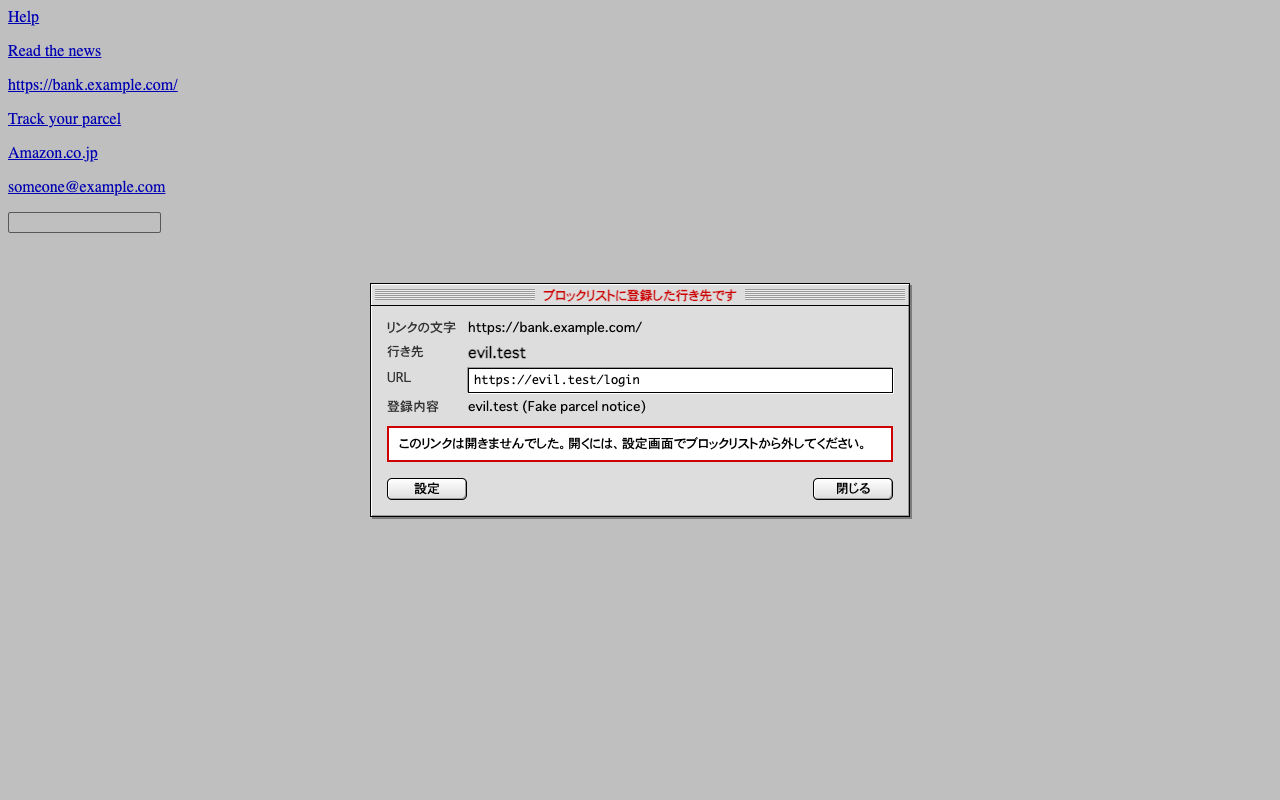
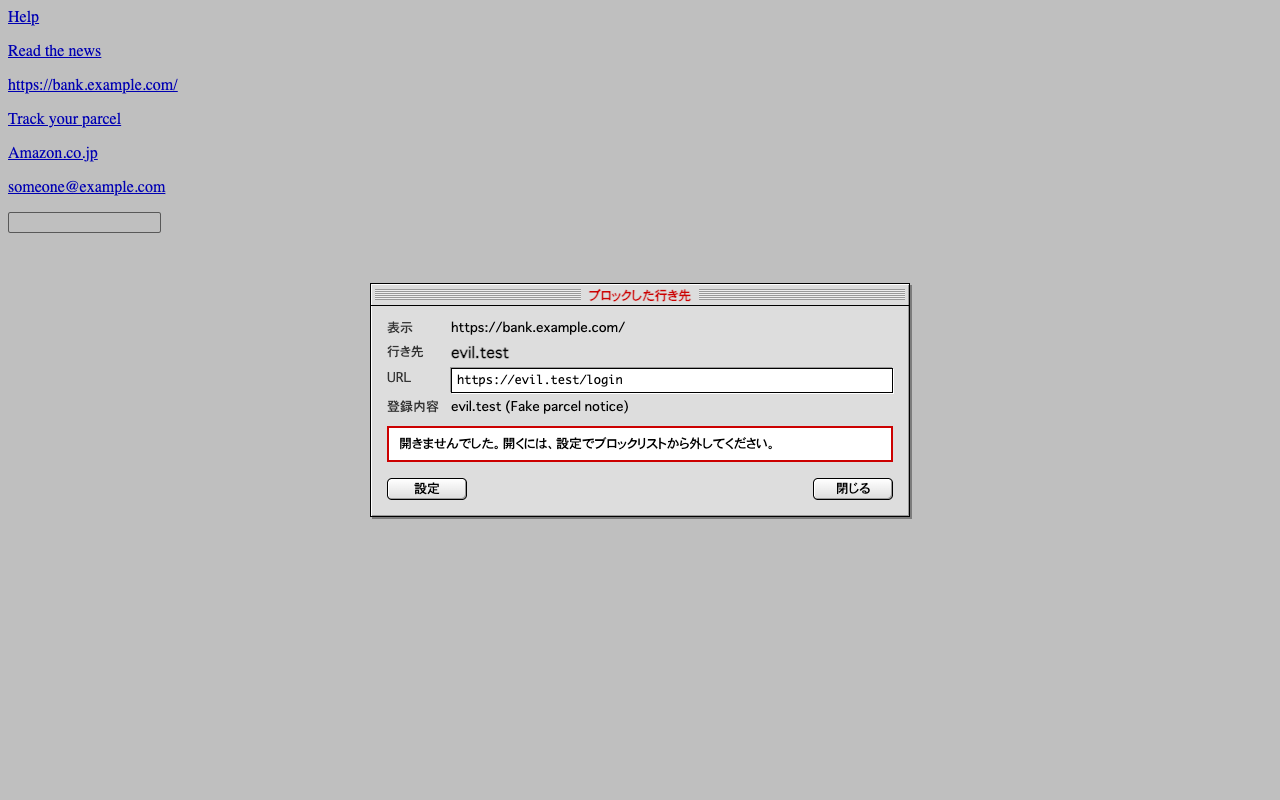
Shorten the Japanese UI wording
Use "リンクの行き先" as the dialog title and remove redundant phrasing
across the Japanese strings and the enterprise guide.

Changed region(s): [[0.3125, 0.4062, 0.6875, 0.5625], [0.4062, 0.3438, 0.5938, 0.375]]

diff --git a/src/locales.ts b/src/locales.ts
@@ -116,35 +116,29 @@ export type MessageKey = keyof typeof en;
 
 export const ja: Record<MessageKey, string> = {
   extName: "Mail Link Guard",
-  extDescription:
-    "Webメールのリンクを開く前に実際の行き先を表示し、ブロックリストに登録した行き先は開かないようにします。",
+  extDescription: "Webメールのリンクを開く前に行き先を表示し、ブロックリストの行き先は開きません。",
 
-  dialogTitle: "このリンクの行き先を確認してください",
-  dialogBlockedTitle: "ブロックリストに登録した行き先です",
-  dialogBlockedBody:
-    "このリンクは開きませんでした。開くには、設定画面でブロックリストから外してください。",
-  labelText: "リンクの文字",
+  dialogTitle: "リンクの行き先",
+  dialogBlockedTitle: "ブロックした行き先",
+  dialogBlockedBody: "開きませんでした。開くには、設定でブロックリストから外してください。",
+  labelText: "表示",
   labelHost: "行き先",
   labelUrl: "URL",
   labelEntry: "登録内容",
-  wrapperGoogle: "Googleのリダイレクト（google.com/url）を外した行き先を表示しています。",
-  wrapperSafelinks:
-    "Outlookの安全なリンク（Safe Links）を外した行き先を表示しています。開くときはSafe Linksを経由します。",
-  noteTextMismatch: "リンクの文字には$1と書かれていますが、行き先は別のドメインです。",
+  wrapperGoogle: "Googleのリダイレクト（google.com/url）を外して表示しています。",
+  wrapperSafelinks: "Safe Linksを外して表示しています。開くときはSafe Linksを経由します。",
+  noteTextMismatch: "表示は$1ですが、行き先は別のドメインです。",
   noteInsecure: "暗号化されていない接続（HTTP）です。",
-  noteIpHost: "行き先がドメイン名ではなくIPアドレスです。",
-  notePunycode:
-    "ドメインに国際化文字（Punycode）が含まれています。見た目が似た別のドメインの可能性があります。",
-  noteShortener: "短縮URLです。最終的な行き先はここでは表示できません。",
-  noteCredentials:
-    "URLの「@」より前に文字（$1）が入っています。実際の行き先は「@」の後ろのドメインです。",
-  noteNone: "形式上の注意点はありません。安全であることを示すものではありません。",
+  noteIpHost: "行き先がIPアドレスです。",
+  notePunycode: "国際化文字（Punycode）を含むドメインです。似せた別のドメインかもしれません。",
+  noteShortener: "短縮URLです。最終的な行き先は分かりません。",
+  noteCredentials: "URLの「@」の前に文字（$1）があります。実際の行き先は「@」の後ろです。",
+  noteNone: "形式上の注意点はありません。安全という意味ではありません。",
   btnCancel: "キャンセル",
   btnOpen: "開く",
   btnClose: "閉じる",
   blockPanelTitle: "ブロックする範囲",
-  blockPanelHelp:
-    "登録すると、次からこの行き先へのリンクは開きません。止める範囲を選んでください。",
+  blockPanelHelp: "登録した行き先のリンクは、次から開きません。",
   noteLabel: "メモ",
   btnRegister: "ブロックリストに追加",
   btnSettings: "設定",
@@ -153,33 +147,29 @@ export const ja: Record<MessageKey, string> = {
   blockScopeUrl: "このURLだけ",
   notePlaceholder: "メモ（任意）",
   blockAddFailed: "登録できませんでした。",
-  dialogEnforcedBody:
-    "このリンクは開きませんでした。組織の管理者がこの行き先をブロックしています。",
-  optManaged: "組織の管理者による設定",
-  optManagedHelp:
-    "これらの項目は組織の管理者が管理しています。すべてのリンクに適用され、ここでは変更できません。",
-  optLockedOn: "組織の設定により、リンクの確認は常にオンです。",
-  optLockedOff: "組織の設定により、リンクの確認はオフです。",
-  optUserListDisabled:
-    "組織の設定により、自分で項目を登録できません。管理者が設定した項目だけが適用されます。",
-  defaultAmazonNote: "Amazonを装った、ギリシャ文字を含むドメイン（初期登録）",
-  defaultMixedScriptNote:
-    "1つの単語の中でラテン文字とギリシャ文字やキリル文字が混ざったドメイン（初期登録）",
+  dialogEnforcedBody: "開きませんでした。組織の管理者がブロックしています。",
+  optManaged: "組織の設定",
+  optManagedHelp: "組織の管理者が設定した項目です。ここでは変更できません。",
+  optLockedOn: "組織の設定で、常にオンです。",
+  optLockedOff: "組織の設定で、オフです。",
+  optUserListDisabled: "組織の設定で、自分では登録できません。",
+  defaultAmazonNote: "ギリシャ文字でAmazonに似せたドメイン（初期登録）",
+  defaultMixedScriptNote: "ラテン文字にギリシャ文字やキリル文字を混ぜたドメイン（初期登録）",
   defaultLookalikeNote:
-    "ラテン文字に見えるギリシャ文字やキリル文字だけで書かれたドメイン（例: аррӏе）（初期登録）",
+    "ラテン文字に見えるギリシャ文字やキリル文字だけのドメイン（例: аррӏе）（初期登録）",
 
   popupEnabled: "リンクを確認する",
-  popupActive: "このページのリンクを確認しています。",
-  popupInactive: "このページは確認の対象外です。",
+  popupActive: "このページを確認しています。",
+  popupInactive: "このページは対象外です。",
   popupBlockCount: "ブロックリスト: $1件",
   popupOpenSettings: "設定を開く",
 
   optTitle: "Mail Link Guardの設定",
   optGeneral: "全般",
-  optEnabled: "メール本文のリンクを確認する（オフにするとブロックも止まります）",
+  optEnabled: "リンクを確認する（オフにするとブロックもしません）",
   optBlocklist: "ブロックリスト",
   optBlocklistHelp:
-    "ここに登録した行き先へのリンクは開きません。ドメインはサブドメインも含みます。URLは、その文字列で始まるURLが対象です。ワイルドカードの*は任意の文字列に当たり、/を含まなければドメインと照合します（例: *.example.*）。正規表現はURL全体と、大文字と小文字を区別せずに照合します。ワイルドカードと正規表現は、似せたドメインを実際の文字（xn--ではなくα）でも照合します。",
+    "登録した行き先のリンクは開きません。ドメインはサブドメインを含みます。URLは前方一致です。ワイルドカードの*は任意の文字列で、/がなければドメインと照合します（例: *.example.*）。正規表現はURL全体と照合し、大文字と小文字を区別しません。ワイルドカードと正規表現は、xn--の形とαなどの実際の文字の両方で照合します。",
   optTypeDomain: "ドメイン",
   optTypeUrl: "URL",
   optTypeWildcard: "ワイルドカード",
@@ -189,9 +179,9 @@ export const ja: Record<MessageKey, string> = {
   optRegexPlaceholder: "^https?://[^/]*paypa[l1]",
   optNotePlaceholder: "メモ（任意）",
   optValueInvalid:
-    "選んだ種類では使えない値です。ドメインやURLの形、ワイルドカードに*が入っているか、正規表現の書き方（500文字まで）を確かめてください。",
-  optDuplicate: "すでにブロックリストに登録されています。",
-  optTooMany: "ブロックリストに登録できるのは$1件までです。",
+    "この種類では使えない値です。ワイルドカードは*を含めてください。正規表現は500文字までです。",
+  optDuplicate: "登録済みです。",
+  optTooMany: "登録できるのは$1件までです。",
   optFilterPlaceholder: "絞り込み",
   optColType: "種類",
   optColValue: "行き先",
@@ -201,24 +191,22 @@ export const ja: Record<MessageKey, string> = {
   optCount: "$1件",
   btnRemove: "削除",
   optImportExport: "インポートとエクスポート",
-  optImportHelp:
-    "この拡張機能で書き出したJSONファイルか、ドメインとURLを並べたJSONの配列を読み込めます。",
-  optImportMerge: "今のリストに追加する（重複は除く）",
-  optImportReplace: "今のリストと置き換える",
+  optImportHelp: "この拡張機能で書き出したJSONか、ドメインとURLを並べたJSONの配列を読み込めます。",
+  optImportMerge: "今のリストに追加（重複は除く）",
+  optImportReplace: "今のリストと置き換え",
   btnImport: "JSONをインポート",
   btnExport: "JSONをエクスポート",
   optImported: "$1件をインポートしました。",
-  optImportedDetail: "重複$1件と、読み取れない項目$2件を除きました。",
-  optImportNotJson: "JSONとして読み取れないファイルです。",
+  optImportedDetail: "重複$1件と読み取れない項目$2件を除きました。",
+  optImportNotJson: "JSONとして読み取れません。",
   optImportWrongFormat: "ブロックリストのファイルではありません。",
-  optImportNewer: "新しい版の拡張機能で作られたファイルです。",
+  optImportNewer: "新しい版で作られたファイルです。",
   optImportTooLarge: "ファイルが大きすぎます。",
-  optPrivacy:
-    "設定とブロックリストは、このブラウザの中にだけ保存します。拡張機能は外部と通信しません。",
+  optPrivacy: "設定とブロックリストはこのブラウザだけに保存し、外部とは通信しません。",
   optAbout: "この拡張機能について",
   optVersion: "バージョン$1",
   optOpenSource:
-    "Mail Link GuardはMIT Licenseで公開しているオープンソースソフトウェアです。商用を含め、誰でも利用、改変、再配布できます。",
+    "MIT Licenseのオープンソースソフトウェアです。商用を含め、誰でも利用、改変、再配布できます。",
   linkSource: "ソースコード",
   linkLicense: "ライセンス（MIT）",
   linkPrivacy: "プライバシーポリシー",

diff --git a/docs/enterprise.ja.md b/docs/enterprise.ja.md
@@ -9,7 +9,7 @@ Chromeが管理の仕組みからポリシーを受け取り、`chrome.storage.m
 | ポリシー | 型 | 効果 |
 |---|---|---|
 | `enforcedEnabled` | 真偽値 | `true`にすると、全員のリンクの確認とブロックを常にオンにします。`false`なら常にオフです。設定しなければ利用者が選べます。 |
-| `enforcedBlocklist` | `{ "type", "value", "note" }`の配列 | 全員に適用するブロックリストです。利用者の設定画面には「組織の管理者による設定」として表示され、削除できません。`type`は`domain`、`url`、`wildcard`、`regex`のいずれかで、書き方は設定画面と同じです。不正な項目は無視します。 |
+| `enforcedBlocklist` | `{ "type", "value", "note" }`の配列 | 全員に適用するブロックリストです。利用者の設定画面には「組織の設定」として表示され、削除できません。`type`は`domain`、`url`、`wildcard`、`regex`のいずれかで、書き方は設定画面と同じです。不正な項目は無視します。 |
 | `allowUserBlocklist` | 真偽値 | `false`にすると、利用者が自分で登録した項目を無視し、追加とインポートもできなくします。`enforcedBlocklist`だけが適用されます。既定は`true`です。 |
 
 スキーマは[static/managed_schema.json](../static/managed_schema.json)です。
@@ -17,7 +17,7 @@ Chromeが管理の仕組みからポリシーを受け取り、`chrome.storage.m
 そのため`allowUserBlocklist`を`false`にすると、初期の項目も効かなくなります。
 残したい場合は、READMEに載せている値を`enforcedBlocklist`に加えてください。
 
-管理者がブロックした行き先のリンクをクリックすると、「組織の管理者がこの行き先をブロックしています」と表示し、開けません。
+管理者がブロックした行き先のリンクをクリックすると、「組織の管理者がブロックしています」と表示し、開けません。
 
 ## 拡張機能のID
 
